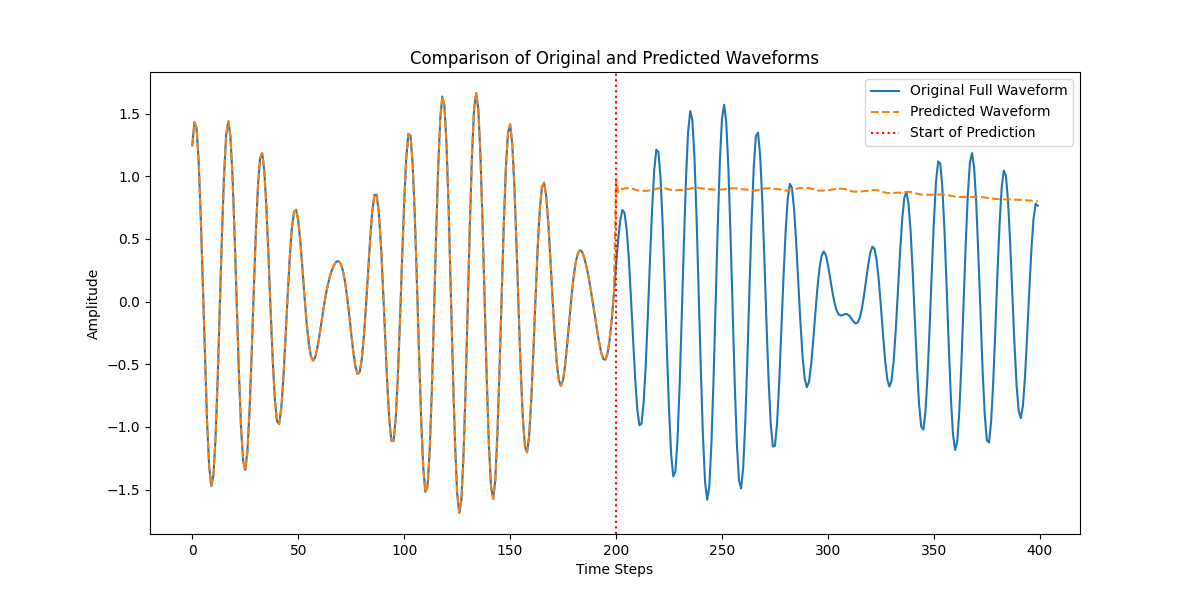
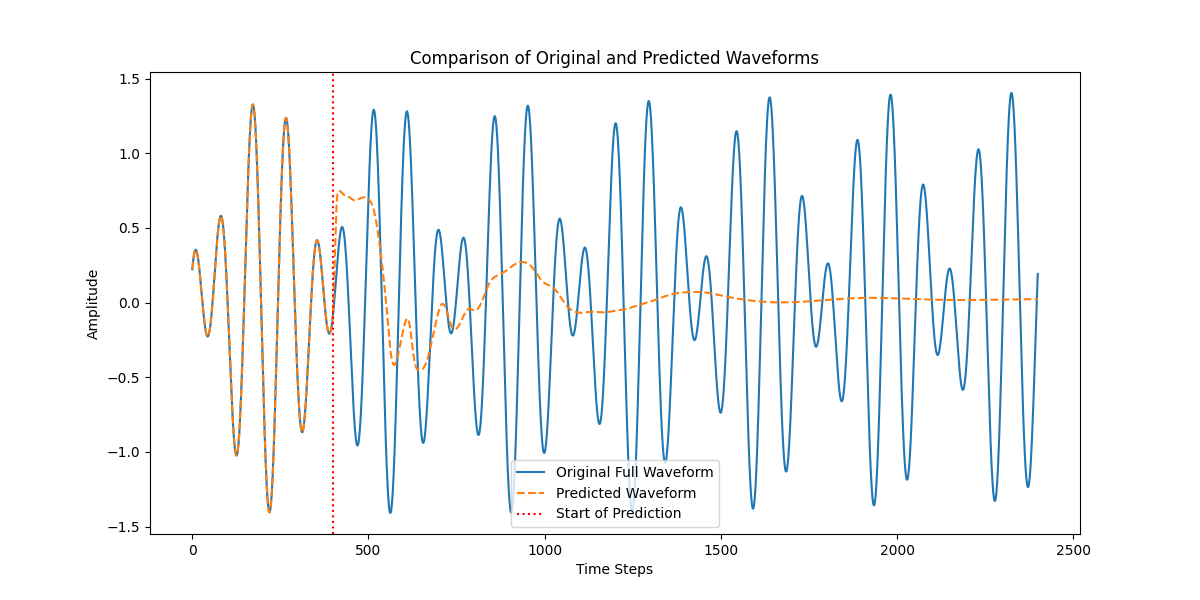
progress

diff --git a/playground/playground.py b/playground/playground.py
@@ -111,7 +111,7 @@ def prepare_data(waveforms, base_sequence_length, split_ratio=0.8):
 if __name__ == "__main__":
     wandb.init(project="transformer-poc", config={"architecture": "initial", "dataset": "waves"})
 
-    num_epochs = 200
+    num_epochs = 50
     num_sequences = 2
     base_sequence_length = 400
     full_sequence_length = base_sequence_length * 6
@@ -120,6 +120,7 @@ if __name__ == "__main__":
     amp_range = (0.5, 1.0)
     phase_range = (0, 2 * np.pi)
     batch_size = 256
+    plot_trained_autoregressive_inference = True  # If false make sure you have enough sequences
 
     waveforms = generate_waveforms(num_sequences, full_sequence_length, num_modes, freq_range, amp_range, phase_range)
     (train_inputs, train_targets), (test_inputs, test_targets) = prepare_data(waveforms, base_sequence_length)
@@ -144,7 +145,7 @@ if __name__ == "__main__":
     model = TransformerDecoderModel(input_dim=1, pos_dim=10, base_sequence_length=base_sequence_length,
                                     nhead=4, num_decoder_layers=3, dim_feedforward=50).to(device)
     loss_fn = nn.MSELoss().to(device)
-    optimizer = torch.optim.Adam(model.parameters(), lr=0.0001)
+    optimizer = torch.optim.Adam(model.parameters(), lr=0.0002)
 
     train(model, train_loader, loss_fn, optimizer, num_epochs)
 
@@ -181,8 +182,10 @@ if __name__ == "__main__":
                     input_sequence = input_sequence[:, -base_sequence_length:, :]
             return torch.cat(predictions, dim=1)
 
+    waveform_to_plot = 0 if plot_trained_autoregressive_inference else -1
+
     # Construct the input to plot up until the prediction point
-    sampling_input = waveforms[0][0:base_sequence_length]
+    sampling_input = waveforms[waveform_to_plot][0:base_sequence_length]
     sampling_input = torch.tensor(sampling_input, dtype=torch.float32).unsqueeze(-1).unsqueeze(0).to(device)
 
     # Autoregressive inference to generate the rest of the waveform
@@ -192,10 +195,10 @@ if __name__ == "__main__":
     # Massage into combined output for plotting
     sampling_input = sampling_input.cpu().numpy()
     predicted_output = predicted_output.squeeze().cpu().numpy()
-    combined_output = np.concatenate((waveforms[0][0:base_sequence_length], predicted_output))
+    combined_output = np.concatenate((waveforms[waveform_to_plot][0:base_sequence_length], predicted_output))
 
     plt.figure(figsize=(12, 6))
-    plt.plot(np.arange(full_sequence_length), waveforms[0], label='Original Full Waveform')
+    plt.plot(np.arange(full_sequence_length), waveforms[waveform_to_plot], label='Original Full Waveform')
     plt.plot(np.arange(full_sequence_length), combined_output, label='Predicted Waveform', linestyle='--')
     plt.axvline(x=base_sequence_length, color='r', linestyle=':', label='Start of Prediction')
     plt.legend()
